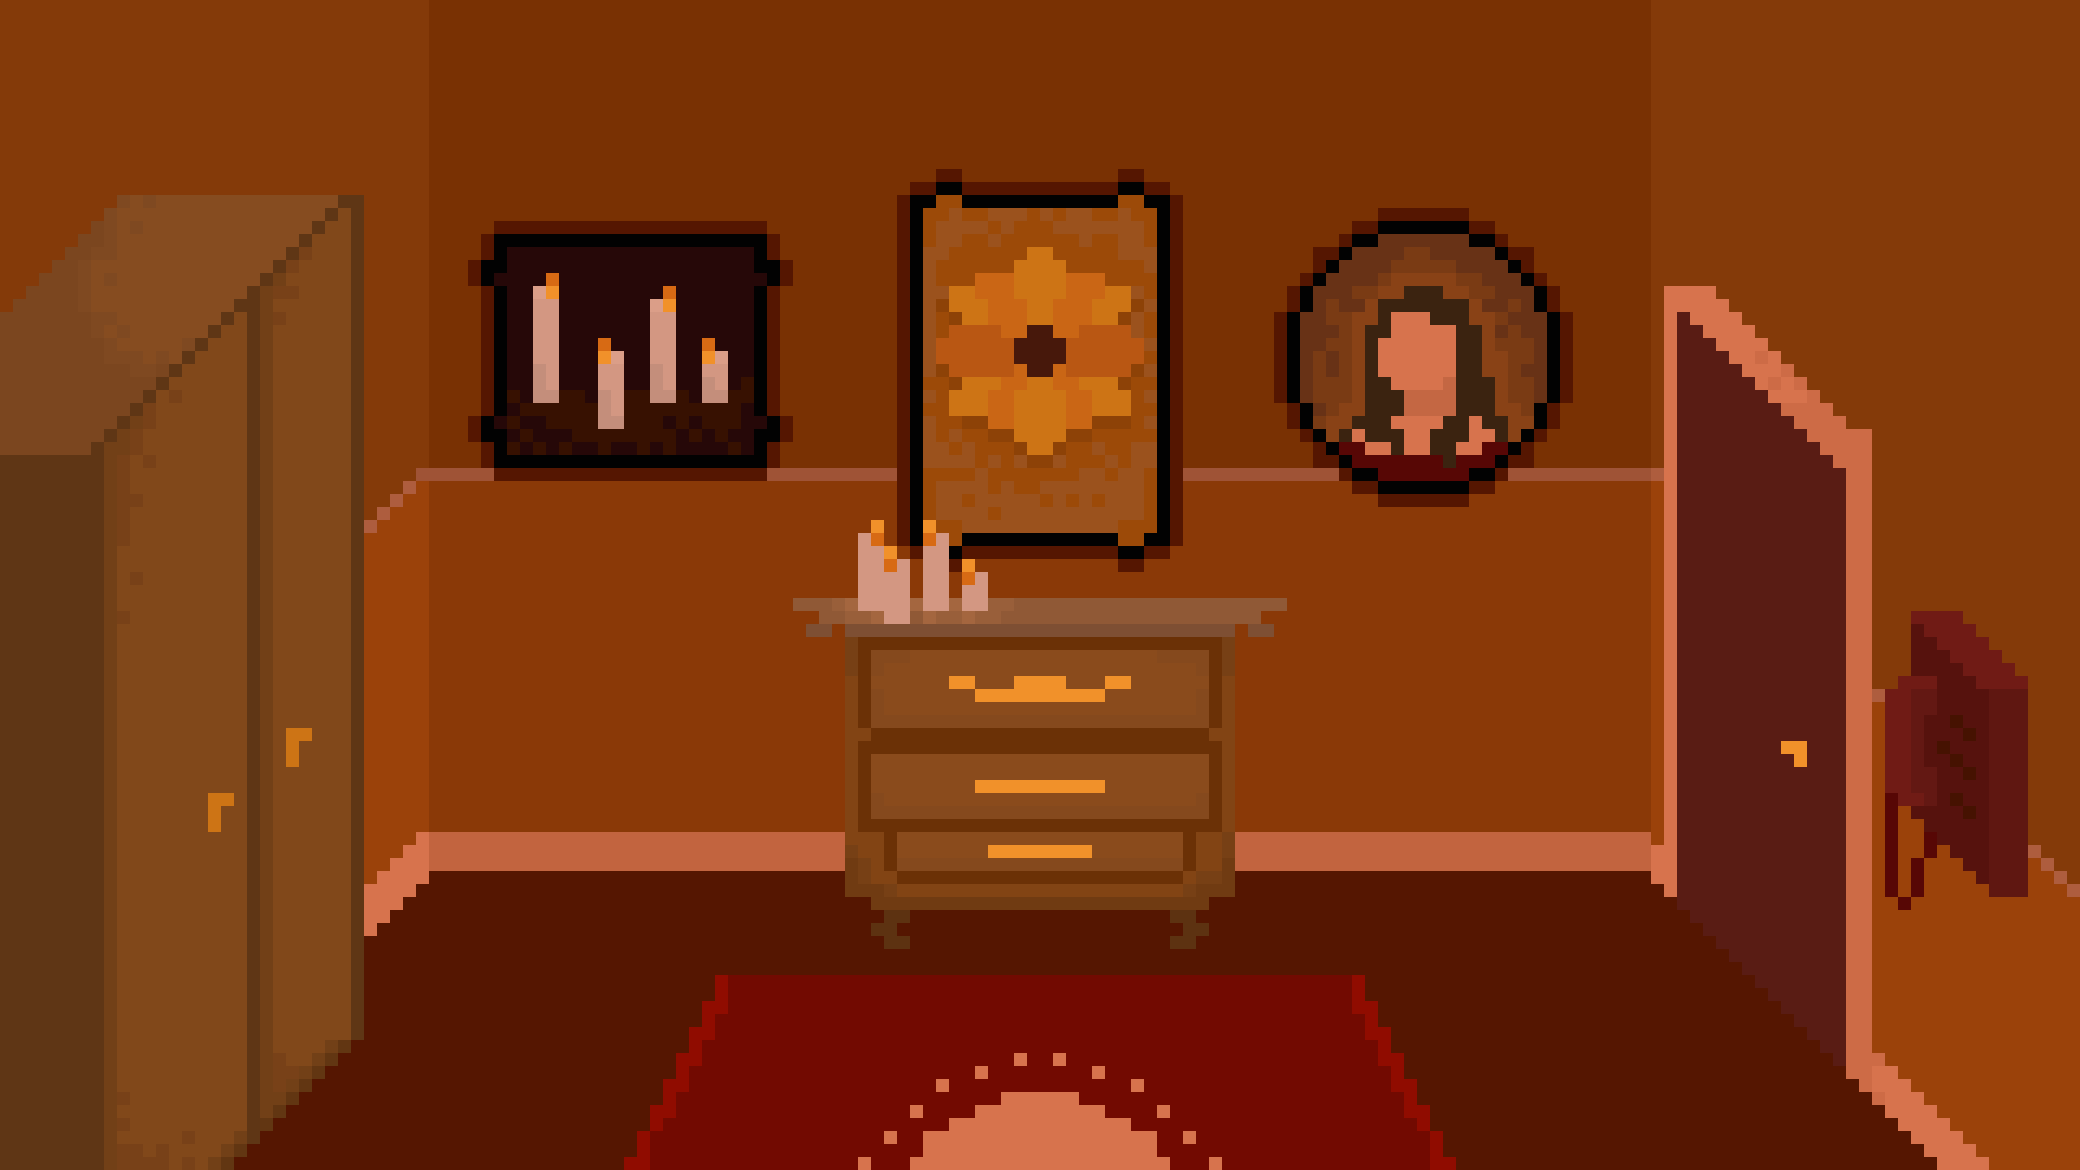
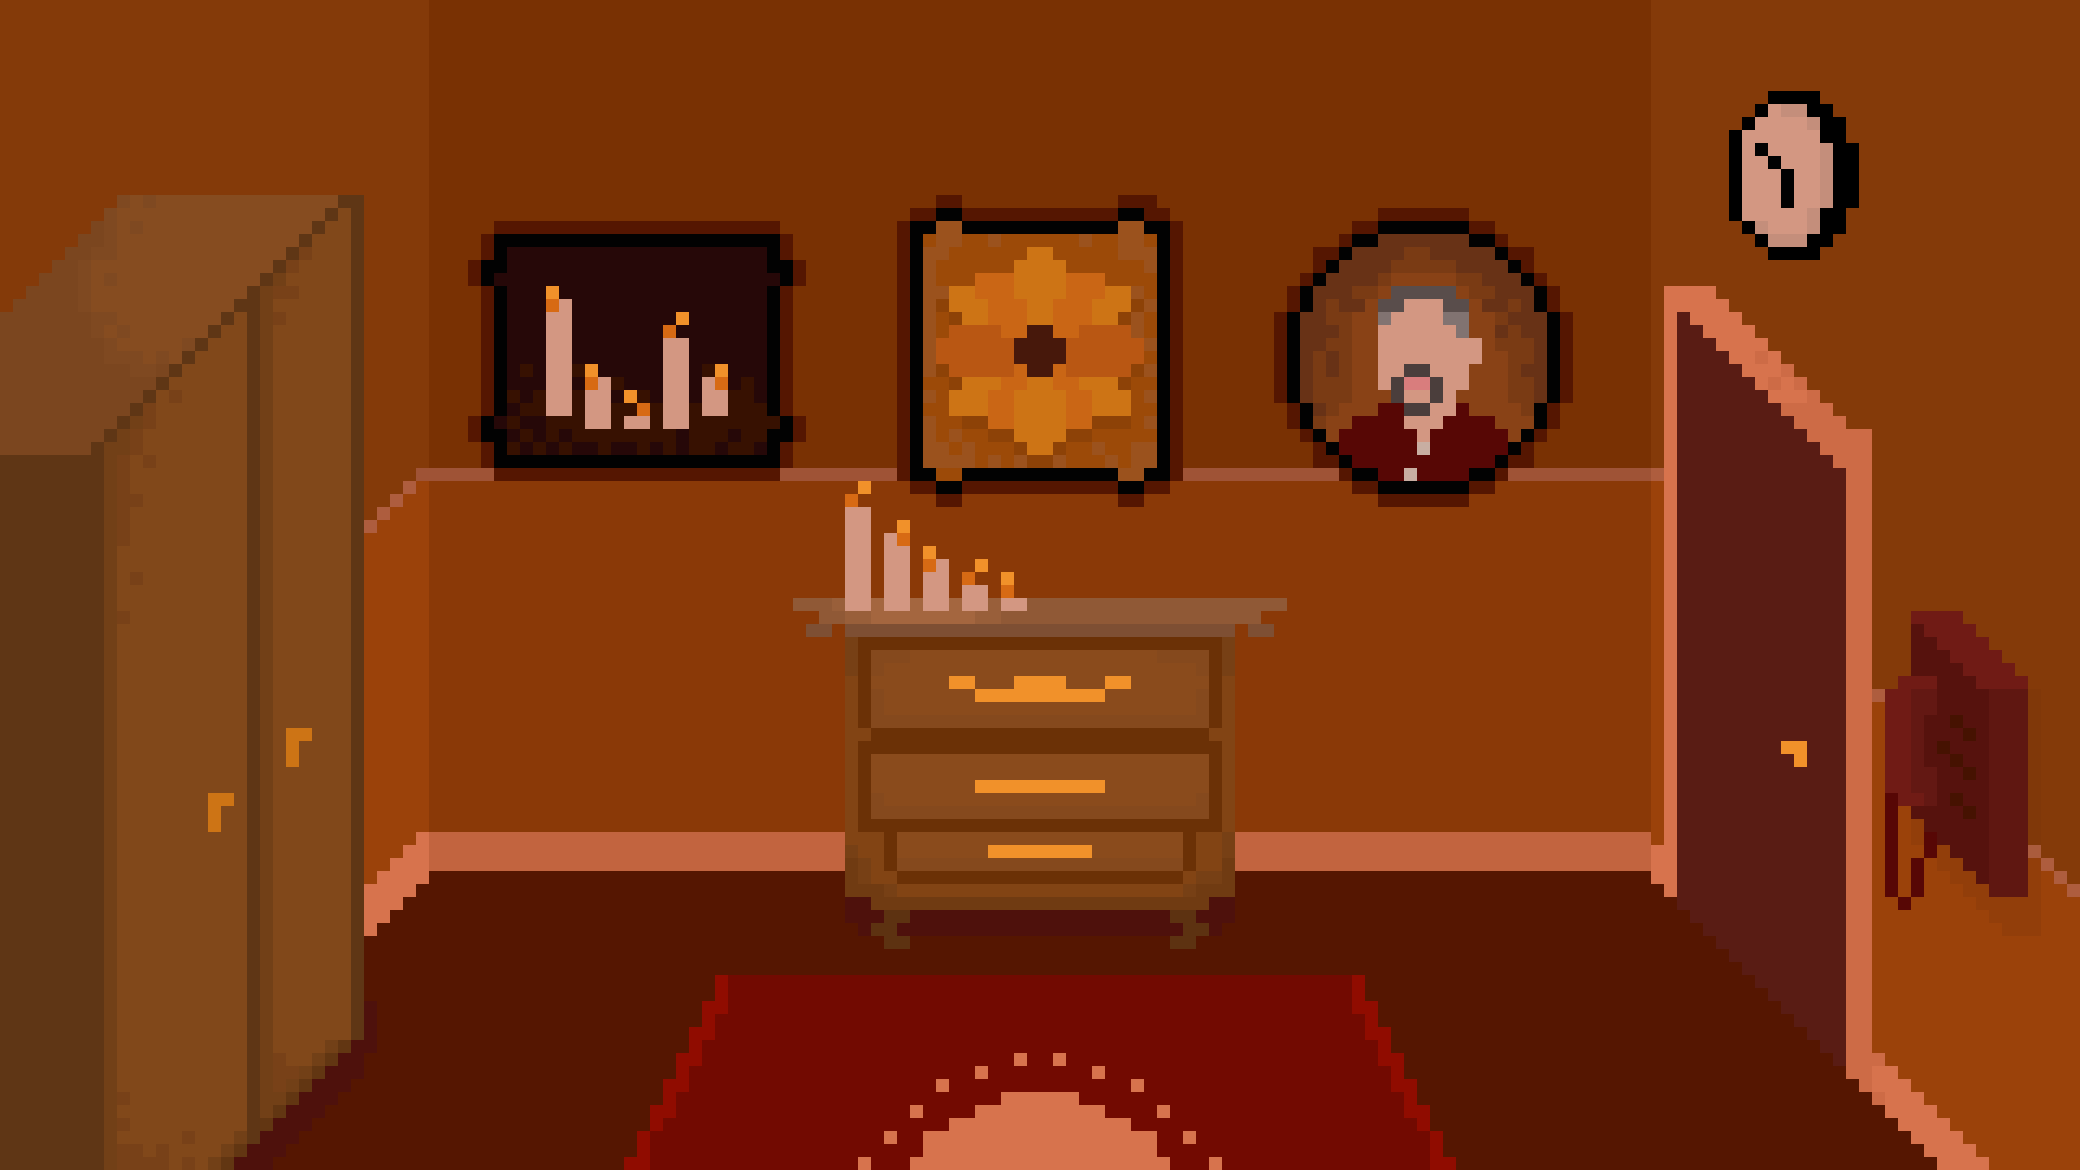
Fixed and integrated clock puzzle into main game code

diff --git a/EscapeRoom.py b/EscapeRoom.py
@@ -1,4 +1,4 @@
-import pygame
+from Assets import *
 
 pygame.init()
 FONT = pygame.font.SysFont("constantia", 18)
@@ -7,29 +7,12 @@ WIDTH, HEIGHT = 960, 540
 WIN = pygame.display.set_mode((WIDTH, HEIGHT))
 pygame.display.set_caption("Escape Room")
 
-
 bg = pygame.image.load("pics/startbackground.png").convert()
 bg = pygame.transform.scale(bg, (WIDTH, HEIGHT))
 
-bg_puzzle = pygame.image.load("pics/puzzlebackground.png").convert()
-bg_puzzle = pygame.transform.scale(bg_puzzle, (WIDTH, HEIGHT))
-
-
-class Candle(pygame.sprite.Sprite):
-    def __init__(self, image_path, x, y, name):
-        super().__init__()
-        self.image = pygame.image.load(image_path)
-        self.image = pygame.transform.scale(self.image, (176, 352))
-        self.rect = self.image.get_rect(center=(x, y))
-        self.name = name
-
-class TextBox(pygame.sprite.Sprite):
-    def __init__(self, image_path, x, y):
-        super().__init__()
-        self.image = pygame.image.load(image_path)
-        self.image = pygame.transform.scale(self.image, (960, 540))
-        self.rect = self.image.get_rect(center=(x, y))
-
+# Candle Puzzle
+bg_candle_puzzle = pygame.image.load("pics/candlepuzzlebackground.png").convert()
+bg_candle_puzzle = pygame.transform.scale(bg_candle_puzzle, (WIDTH, HEIGHT))
 
 taller = Candle("pics/1.png", 120, 300, "taller")
 tall = Candle("pics/2.png", 300, 300, "tall")
@@ -38,27 +21,15 @@ short = Candle("pics/4.png", 660, 300, "short")
 shortest = Candle("pics/5.png", 840, 300, "shortest")
 Candles = [shortest, short, normal, tall, taller]
 
-
-textbox = TextBox("pics/textbox2.png", WIDTH / 2, HEIGHT / 2)
-
 candle_sprites = pygame.sprite.Group(shortest, short, normal, tall, taller)
 correct_order = ["taller", "normal", "shortest", "tall", "short"]
-#correct_order = ["taller", "tall", "normal", "short", "shortest"]
 
-text_sprites = pygame.sprite.Group(textbox)
+candle_puzzle_click_box = pygame.Rect(380, 230, 90, 60)
+candle_exit_click_box = pygame.Rect(0,0, 960, 100)
 
-puzzle_click_box = pygame.Rect(380, 230, 90, 60)
-exit_click_box = pygame.Rect(0,0, 960, 100)
-
-
-def draw_start():
-    WIN.blit(bg, (0, 0))
-    #pygame.draw.rect(WIN, (255, 0, 0), puzzle_click_box, 3)
-
-def draw_puzzle():
-    WIN.blit(bg_puzzle, (0, 0))
+def draw_candle_puzzle():
+    WIN.blit(bg_candle_puzzle, (0, 0))
     candle_sprites.draw(WIN)
-    #pygame.draw.rect(WIN, (255, 0, 0), exit_click_box, 3)
 
 def check_order(Candles):
     order = Candles[:]
@@ -81,8 +52,39 @@ def check_order(Candles):
 
     return True
 
+# Clock Puzzle
+bg_clock_puzzle = pygame.image.load("pics/clock.png")
+bg_clock_puzzle = pygame.transform.scale(bg_clock_puzzle, (WIDTH, HEIGHT))
+
+clock_puzzle_click_box = pygame.Rect(780, 30, 100, 100)
+clock_exit_click_box = pygame.Rect(0,0, 960, 100)
+
+cx = WIDTH // 2
+cy = HEIGHT // 2
+clock_center = (cx, cy)
+
+min_angles = [(cx, 60), (cx+210, cy), (cx, cy+210), (cx-210, cy)]
+min_point = 0
+
+hr_angles = [(cx, 150), (cx+75, cy-100), (cx+120, cy-60), (cx+150, cy), (cx+120, cy+60), (cx+75, cy+100),
+             (cx, 390), (cx-75, cy+100), (cx-120, cy+60), (cx-150, cy), (cx-120, cy-60), (cx-75, cy-100)]
+hr_point = 0
+
+def draw_clock_puzzle():
+    c = bg_clock_puzzle.get_rect(center=(cx, cy))
+    WIN.blit(bg_clock_puzzle, c)
+    pygame.draw.line(WIN, (0, 0, 0), (cx, cy), min_angles[min_point], 6)
+    pygame.draw.line(WIN, (0, 0, 0), (cx, cy), hr_angles[hr_point], 8)
+
+# Game
+textbox = TextBox("pics/textbox.png", WIDTH / 2, HEIGHT / 2)
+text_sprites = pygame.sprite.Group(textbox)
+
+def draw_start():
+    WIN.blit(bg, (0, 0))
+    #pygame.draw.rect(WIN, (255, 0, 0), clock_puzzle_click_box, 3)
+
 def main():
-    clock = pygame.time.Clock()
     run = True
     scene = "start"
     win = False
@@ -99,10 +101,12 @@ def main():
 
             if event.type == pygame.MOUSEBUTTONDOWN:
                 if scene == "start":
-                    if puzzle_click_box.collidepoint(event.pos):
-                        scene = "puzzle"
-                elif scene == "puzzle":
-                    if exit_click_box.collidepoint(event.pos):
+                    if candle_puzzle_click_box.collidepoint(event.pos):
+                        scene = "candle_puzzle"
+                    elif clock_puzzle_click_box.collidepoint(event.pos):
+                        scene = "clock_puzzle"
+                elif scene == "candle_puzzle":
+                    if candle_exit_click_box.collidepoint(event.pos):
                         scene = "start"
                         win = False
                     for sprite in candle_sprites:
@@ -112,10 +116,26 @@ def main():
                             offset_x = sprite.rect.x - mouse_x
                             offset_y = sprite.rect.y - mouse_y
                             break
+                elif scene == "clock_puzzle":
+                    if clock_exit_click_box.collidepoint(event.pos):
+                        scene = "start"
+                    if event.button == 1:
+                        global min_point
+                        if min_point < len(min_angles) - 1:
+                            min_point += 1
+                        else:
+                            min_point = 0
+                    if event.button == 3:
+                        global hr_point
+                        if hr_point < len(hr_angles) - 1:
+                            hr_point += 1
+                        else:
+                            hr_point = 0
             elif event.type == pygame.MOUSEBUTTONUP:
                 selected_sprite = None
-                if scene == "puzzle" and check_order(Candles):
+                if scene == "candle_puzzle" and check_order(Candles):
                     win = True
+
 
             elif event.type == pygame.MOUSEMOTION:
                 if selected_sprite:
@@ -125,13 +145,15 @@ def main():
 
         if scene == "start":
             draw_start()
-        elif scene == "puzzle":
-            draw_puzzle()
+        elif scene == "candle_puzzle":
+            draw_candle_puzzle()
             candle_sprites.update()
+        elif scene == "clock_puzzle":
+            draw_clock_puzzle()
 
         if check_order(Candles):
             win = True
-        if win and scene == "puzzle":
+        if win and scene == "candle_puzzle":
             text_sprites.draw(WIN)
             clue_1 = ("After the last candle is in place, a note falls out of the drawer. It is a work"
                       "\nschedule which shows that the Butler could not have been working at"
@@ -144,8 +166,11 @@ def main():
             for line_surface_1 in clue_1_lines:
                 WIN.blit(line_surface_1,(200 ,y_position))
                 y_position += 25
+
+        if hr_point == 6 and min_point == 1 and scene == "clock_puzzle":
+            text_sprites.draw(WIN)
+
         pygame.display.flip()
-        clock.tick(60)
 
     pygame.quit()
 

diff --git a/Puzzle.py b/Puzzle.py
@@ -1,20 +1,27 @@
 import pygame
+from EscapeRoom import TextBox
 
 pygame.init()
 
-screen = pygame.display.set_mode((500, 600))
+WIDTH, HEIGHT = 960, 540
+screen = pygame.display.set_mode((WIDTH, HEIGHT))
 
-clock_img = pygame.image.load("clock.png")
-min_img = pygame.image.load("min hand.png")
-hr_img = pygame.image.load("hr hand.png")
+textbox = TextBox("pics/textbox.png", WIDTH / 2, HEIGHT / 2)
+text_sprites = pygame.sprite.Group(textbox)
 
-clock_img = pygame.transform.scale(clock_img, (400, 400))
+clock_img = pygame.image.load("pics/clock.png")
+clock_img = pygame.transform.scale(clock_img, (WIDTH, HEIGHT))
 
-cx = 275
-cy = 325
+cx = WIDTH // 2
+cy = HEIGHT // 2
+clock_center = (cx, cy)
 
-min_angle = -30
-hr_angle = -30
+min_angles = [(cx, 60), (cx+210, cy), (cx, cy+210), (cx-210, cy)]
+min_point = 0
+
+hr_angles = [(cx, 150), (cx+75, cy-100), (cx+120, cy-60), (cx+150, cy), (cx+120, cy+60), (cx+75, cy+100),
+             (cx, 390), (cx-75, cy+100), (cx-120, cy+60), (cx-150, cy), (cx-120, cy-60), (cx-75, cy-100)]
+hr_point = 0
 
 running = True
 while running:
@@ -24,15 +31,16 @@ while running:
 
         if event.type == pygame.MOUSEBUTTONDOWN:
             if event.button == 1:
-                min_angle = min_angle + 30
+                if min_point < len(min_angles)-1:
+                    min_point += 1
+                else:
+                    min_point = 0
             if event.button == 3:
-                hr_angle = hr_angle + 30
+                if hr_point < len(hr_angles)-1:
+                    hr_point += 1
+                else:
+                    hr_point = 0
 
-
-    if min_angle >= 360:
-        min_angle -= 360
-    if hr_angle >= 360:
-        hr_angle -= 360
 
     screen.fill((0, 0, 0))
 
@@ -40,15 +48,11 @@ while running:
     c = clock_img.get_rect(center=(cx, cy))
     screen.blit(clock_img, c)
 
+    pygame.draw.line(screen, (0, 0, 0), (cx, cy), min_angles[min_point], 6)
+    pygame.draw.line(screen, (0, 0, 0), (cx, cy), hr_angles[hr_point], 8)
 
-    min_rot = pygame.transform.rotate(min_img, -min_angle)
-    min_rect = min_rot.get_rect(center=(cx, cy))
-    screen.blit(min_rot, min_rect)
-
-
-    hr_rot = pygame.transform.rotate(hr_img, -hr_angle)
-    hr_rect = hr_rot.get_rect(center=(cx, cy))
-    screen.blit(hr_rot, hr_rect)
+    if hr_point == 6 and min_point == 1:
+        text_sprites.draw(screen)
 
     pygame.display.update()
 

diff --git a/Assets.py b/Assets.py
@@ -1,0 +1,16 @@
+import pygame
+
+class Candle(pygame.sprite.Sprite):
+    def __init__(self, image_path, x, y, name):
+        super().__init__()
+        self.image = pygame.image.load(image_path)
+        self.image = pygame.transform.scale(self.image, (176, 352))
+        self.rect = self.image.get_rect(center=(x, y))
+        self.name = name
+
+class TextBox(pygame.sprite.Sprite):
+    def __init__(self, image_path, x, y):
+        super().__init__()
+        self.image = pygame.image.load(image_path)
+        self.image = pygame.transform.scale(self.image, (960, 540))
+        self.rect = self.image.get_rect(center=(x, y))

diff --git a/main.py b/main.py
@@ -1,4 +1,4 @@
-import pygame
+# import pygame
 import random
 import time
 from sprite import *
